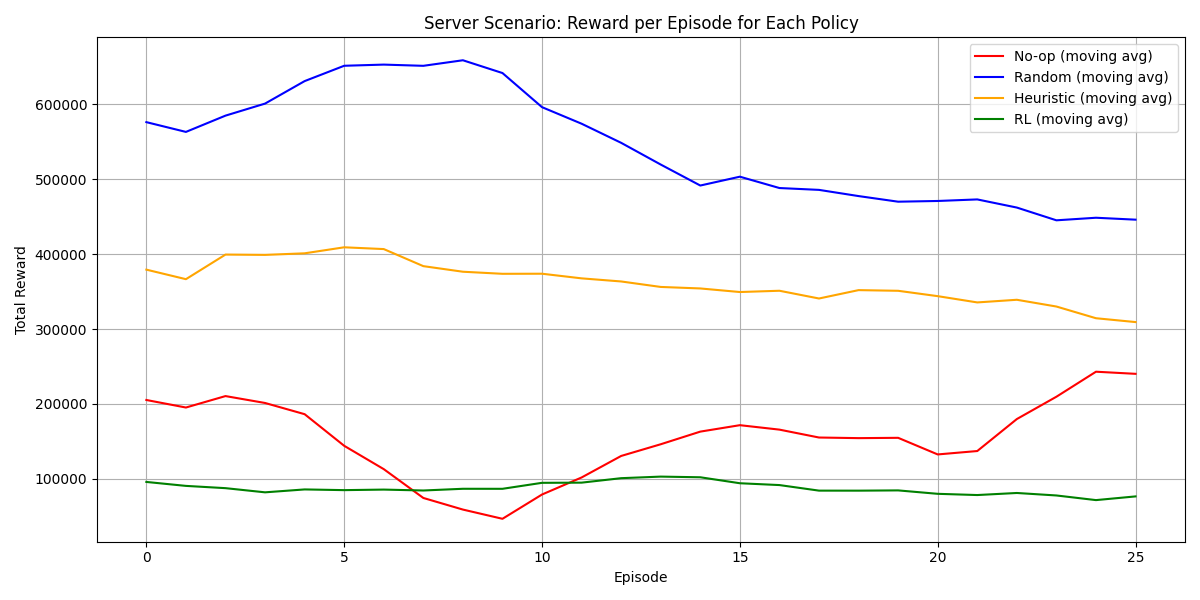
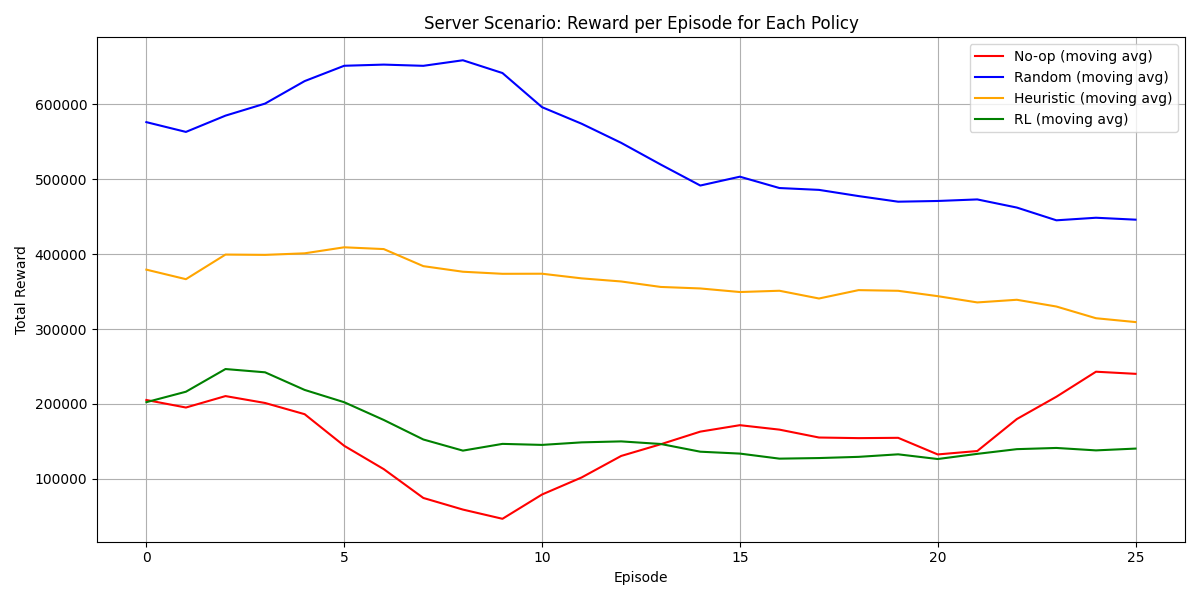
working on second scenario ..

diff --git a/Second Scenario - Server/train_server_agent.py b/Second Scenario - Server/train_server_agent.py
@@ -63,16 +63,20 @@ def reset_sys_params():
     time.sleep(2)  
 
 def get_current_params():
-    dirty_ratio = os.popen("sysctl vm.dirty_ratio").read().split("=")[1].strip()
-    rmem = os.popen("sysctl net.core.rmem_max").read().split("=")[1].strip()
-    wmem = os.popen("sysctl net.core.wmem_max").read().split("=")[1].strip()
-    zswap = os.popen("cat /sys/module/zswap/parameters/enabled").read().strip()
-    return {
-        "dirty_ratio": dirty_ratio,
-        "rmem_max": rmem,
-        "wmem_max": wmem,
-        "zswap": zswap
-    }
+    params = {}
+    # dirty_ratio
+    params["dirty_ratio"] = os.popen("sysctl vm.dirty_ratio").read().split("=")[1].strip()
+    # rmem_max
+    params["rmem_max"] = os.popen("sysctl net.core.rmem_max").read().split("=")[1].strip()
+    # wmem_max
+    params["wmem_max"] = os.popen("sysctl net.core.wmem_max").read().split("=")[1].strip()
+    # tcp_tw_reuse
+    params["tcp_tw_reuse"] = os.popen("sysctl net.ipv4.tcp_tw_reuse").read().split("=")[1].strip()
+    # tcp_fin_timeout
+    params["tcp_fin_timeout"] = os.popen("sysctl net.ipv4.tcp_fin_timeout").read().split("=")[1].strip()
+    # somaxconn
+    params["somaxconn"] = os.popen("sysctl net.core.somaxconn").read().split("=")[1].strip()
+    return params
 
 def validate_configuration(config_params, agent):
     for param, value in config_params.items():
@@ -82,8 +86,13 @@ def validate_configuration(config_params, agent):
             os.system(f"sudo sysctl -w net.core.rmem_max={value}")
         elif param == "wmem_max":
             os.system(f"sudo sysctl -w net.core.wmem_max={value}")
-        elif param == "zswap":
-            os.system(f"sudo sh -c 'echo {value} > /sys/module/zswap/parameters/enabled'")
+        elif param == "tcp_tw_reuse":
+            os.system(f"sudo sysctl -w net.ipv4.tcp_tw_reuse={value}")
+        elif param == "tcp_fin_timeout":
+            os.system(f"sudo sysctl -w net.ipv4.tcp_fin_timeout={value}")
+        elif param == "somaxconn":
+            os.system(f"sudo sysctl -w net.core.somaxconn={value}")
+
     rps, latency, p99, _ = run_wrk(duration=10)
     metrics = collect_metrics(rps)
     reward = agent.compute_reward(metrics, latency=latency, p99=p99)
@@ -111,21 +120,22 @@ def run_episode(agent, nb_steps_per_episode, sleep_interval, previous_actions):
         next_state = agent.get_state(collect_metrics(requests_per_sec))
         metrics = collect_metrics(requests_per_sec)
         reward = agent.compute_reward(metrics, latency=latency, p99=p99)
-        penalty_factor = agent.penalize_consecutive_actions(action_idx, previous_actions)
-        reward *= penalty_factor
+        if agent.actions[action_idx] != "no_op":
+            penalty_factor = agent.penalize_consecutive_actions(action_idx, previous_actions)
+            reward *= penalty_factor
         print("reward:", reward)
         previous_actions.append(action_idx)
         agent.learn(state, action_idx, reward, next_state)
         state = next_state
-        total_reward += reward  # <-- CUMUL ICI
+        total_reward += reward 
         time.sleep(sleep_interval)
 
-    # Final evaluation step (optionnel, ne pas l'ajouter au total_reward pour rester cohérent)
+    # Final evaluation step 
     requests_per_sec, latency, p99, _ = run_wrk(duration=5)
     metrics = collect_metrics(requests_per_sec)
     reward = agent.compute_reward(metrics, latency=latency, p99=p99)
     agent.learn(state, action_idx, reward, state)
-    return total_reward, requests_per_sec, latency  # <-- ON RETOURNE LE TOTAL
+    return total_reward, requests_per_sec, latency 
 
 def update_best_configs(best_configs, reward, requests_per_sec, latency):
     config = Configuration(
@@ -142,6 +152,7 @@ def update_best_configs(best_configs, reward, requests_per_sec, latency):
     return best_configs
 
 def plot_rewards(rewards, plots_dir):
+    """ Plot the rewards and save the plot to a file."""
     os.makedirs(plots_dir, exist_ok=True)
     existing = [int(f.split("_")[1].split(".")[0]) for f in os.listdir(plots_dir) if f.startswith("plot_") and f.endswith(".png")]
     next_num = max(existing) + 1 if existing else 1
@@ -161,7 +172,8 @@ def plot_rewards(rewards, plots_dir):
     plt.savefig(plot_path)
     print(f"Plot saved as {plot_path}")
 
-def train_agent(num_episodes=30, nb_steps_per_episode=10, sleep_interval=0.1, return_rewards=False, exploration_rate=1.0):
+def train_agent(num_episodes=100, nb_steps_per_episode=20, sleep_interval=0.1, return_rewards=False, exploration_rate=1.0):
+    """Train a reinforcement learning agent for the server scenario."""
     agent = ServerAgent(exploration_rate=exploration_rate)
     qtable_path = "Second Scenario - Server/q_table_server.npy"
     rewards_dir = "Second Scenario - Server/rewards"
@@ -179,7 +191,7 @@ def train_agent(num_episodes=30, nb_steps_per_episode=10, sleep_interval=0.1, re
             print(f"\n=== Episode {episode+1} / {num_episodes} ===")
             reward, requests_per_sec, latency = run_episode(agent, nb_steps_per_episode, sleep_interval, previous_actions)
             rewards.append(reward)
-            print(f"Reward of episode {episode+1} : {reward}")
+            print(f"Average reward of episode {episode+1} : {reward/nb_steps_per_episode}")
 
             if reward > best_reward:
                 best_reward = reward

diff --git a/Second Scenario - Server/agent_server.py b/Second Scenario - Server/agent_server.py
@@ -31,12 +31,8 @@ class ServerAgent:
             "set_somaxconn_128",
             "set_somaxconn_1024",
             "no_op", 
-            "reset_dirty_ratio",
             "reset_rmem_max",
             "reset_wmem_max",
-            "reset_tcp_tw_reuse",
-            "reset_tcp_fin_timeout",
-            "reset_somaxconn",
         ]
 
         self.bins = {
@@ -108,7 +104,6 @@ class ServerAgent:
     def apply_action(self, action_idx, metrics_before=None):
         """
         Apply the selected action to the system.
-        Log ctx_switches avant/après, rollback si aggravation, cooldown/pénalité pour actions toxiques.
         """
         action = self.actions[action_idx]
         current_time = time.time()
@@ -120,10 +115,6 @@ class ServerAgent:
 
         self.last_action_time[action] = current_time
 
-        # Log ctx_switches avant action
-        ctx_before = metrics_before.get("ctx_switches", 0) if metrics_before else None
-
-        # Appliquer l'action
         if action == "no_op":
             pass
         elif action == "set_dirty_ratio_10":
@@ -163,75 +154,10 @@ class ServerAgent:
         elif action == "reset_wmem_max":
             os.system("sudo sysctl -w net.core.wmem_max=212992")
 
-        # Attendre un peu pour que l'effet de l'action soit visible
-        time.sleep(0.2)
+        time.sleep(0.5)  # Wait for the system to apply the changes
 
-        # Log ctx_switches après action
-        ctx_after = None
-        if metrics_before is not None:
-            import psutil
-            ctx_after = psutil.cpu_stats().ctx_switches
-            print(f"[ACTION] {action} | ctx_switches avant: {ctx_before}, après: {ctx_after}")
 
-            # Rollback si aggravation > X% (ex: 20%)
-            if ctx_before and ctx_after and ctx_after > ctx_before * 1.2:
-                print(f"[ROLLBACK] ctx_switches aggravé de plus de 20% par {action}, rollback!")
-                self.rollback_action(action)
-                return False
-
-        # Pénalité exponentielle/cooldown pour actions toxiques
-        if action == "disable_zswap":
-            print("[PENALTY] Action toxique détectée: disable_zswap")
-            self.last_action_time[action] = current_time + 30  # cooldown de 30s
-
-        return True
-
-    def rollback_action(self, action):
-        """
-        Rollback d'une action si aggravation détectée.
-        """
-        if action.startswith("set_dirty_ratio"):
-            os.system("sudo sysctl -w vm.dirty_ratio=20")
-        elif action.startswith("set_rmem_max"):
-            os.system("sudo sysctl -w net.core.rmem_max=212992")
-        elif action.startswith("set_wmem_max"):
-            os.system("sudo sysctl -w net.core.wmem_max=212992")
-        elif action.startswith("set_tcp_tw_reuse"):
-            os.system("sudo sysctl -w net.ipv4.tcp_tw_reuse=0")
-        elif action.startswith("set_tcp_fin_timeout"):
-            os.system("sudo sysctl -w net.ipv4.tcp_fin_timeout=60")
-        elif action.startswith("set_somaxconn"):
-            os.system("sudo sysctl -w net.core.somaxconn=128")
-
-    def compute_reward(self, metrics, latency=None, p99=None, debug=False):
-        """
-        Compute the reward based on system metrics and latency.
-        Version simplifiée : reward = requests_per_sec uniquement,
-        ctx_penalty refactorisé.
-        """
-        rps = metrics.get("requests_per_sec", 0)
-        ctx_switches = metrics.get("ctx_switches", 0)
-        reward = rps
-
-        # Pénalité context switches (plus douce)
-        ctx_penalty = (ctx_switches / 20000) ** 1.1
-        reward -= ctx_penalty
-
-        # Pénalité latence (si mesurée)
-        if latency is not None:
-            reward -= (latency / 10)  # 10ms de latence = -1
-
-        # Pénalité p99 (si mesurée)
-        if p99 is not None:
-            reward -= (p99 / 10)
-
-        # Clamp pour éviter des rewards trop extrêmes
-        reward = max(reward, -100000)
-
-        if debug:
-            print(f"Reward: {reward:.2f} | RPS: {rps:.2f} | ctx_penalty: {ctx_penalty:.2f} | latency: {latency} | p99: {p99}")
-
-        return reward
+#reward fct 
 
     def penalize_consecutive_actions(self, current_action, previous_actions, window=3):
         """

diff --git a/Second Scenario - Server/heuristic_agent_server.py b/Second Scenario - Server/heuristic_agent_server.py
@@ -7,19 +7,19 @@ from train_server_agent import collect_metrics, reset_sys_params
 
 def heuristic_policy(metrics, agent):
     """Apply a heuristic policy based on system metrics to select an action."""
-    # Si iowait > 1, baisse dirty_ratio pour accélérer le flush
-    if metrics["iowait"] > 1:
+    if metrics["iowait"] > 1: 
+        # If I/O wait is high, increase dirty ratio
         return agent.actions.index("set_dirty_ratio_10")
-    # Si la latence est élevée (> 1 ms) et le RPS est faible, augmente wmem_max
     if metrics.get("latency", 0) > 1 and metrics["requests_per_sec"] < 100000:
+        # If latency is high and requests per second is low, increase memory limits
         return agent.actions.index("set_wmem_max_16M")
-    # Si cpu_usage > 30%, augmente rmem_max pour améliorer le débit réseau
     if metrics["cpu_usage"] > 30:
+        # If CPU usage is high, reduce dirty ratio
         return agent.actions.index("set_rmem_max_16M")
-    # Si ctx_switches > 20000, augmente somaxconn pour éviter la saturation
     if metrics.get("ctx_switches", 0) > 20000:
+        # If context switches are high, increase TCP reuse
         return agent.actions.index("set_somaxconn_1024")
-    # Sinon, no_op
+    # If none of the conditions are met, do nothing
     return agent.actions.index("no_op")
 
 def main(num_episodes=30, nb_steps_per_episode=10, sleep_interval=1, return_rewards=False):
@@ -43,15 +43,16 @@ def main(num_episodes=30, nb_steps_per_episode=10, sleep_interval=1, return_rewa
             next_state = agent.get_state(collect_metrics(requests_per_sec))
             metrics = collect_metrics(requests_per_sec)
             reward = agent.compute_reward(metrics, latency=latency, p99=p99)
-            penalty_factor = agent.penalize_consecutive_actions(action_idx, previous_actions)
-            reward *= penalty_factor
+            if agent.actions[action_idx] != "no_op":
+                penalty_factor = agent.penalize_consecutive_actions(action_idx, previous_actions)
+                reward *= penalty_factor
             print("reward:", reward)
             previous_actions.append(action_idx)
             total_reward += reward
             state = next_state
             time.sleep(sleep_interval)
         rewards.append(total_reward)
-        print(f"Episode {episode+1}: total reward = {total_reward:.2f}")
+        print(f"Average reward for episode {episode+1}: {total_reward/nb_steps_per_episode}")
     os.makedirs("Second Scenario - Server/rewards", exist_ok=True)
     np.save("Second Scenario - Server/rewards/rewards_heuristic_server.npy", np.array(rewards))
     if return_rewards:

diff --git a/Second Scenario - Server/random_agent_server.py b/Second Scenario - Server/random_agent_server.py
@@ -23,15 +23,16 @@ def main(num_episodes=30, nb_steps_per_episode=10, sleep_interval=1, return_rewa
             next_state = agent.get_state(collect_metrics(requests_per_sec))
             metrics = collect_metrics(requests_per_sec)
             reward = agent.compute_reward(metrics, latency=latency, p99=p99)
-            penalty_factor = agent.penalize_consecutive_actions(action_idx, previous_actions)
-            reward *= penalty_factor
+            if agent.actions[action_idx] != "no_op":
+                penalty_factor = agent.penalize_consecutive_actions(action_idx, previous_actions)
+                reward *= penalty_factor
             print("reward:", reward)
             previous_actions.append(action_idx)
             total_reward += reward
             state = next_state
             time.sleep(sleep_interval)
         rewards.append(total_reward)
-        print(f"Episode {episode+1}: total reward = {total_reward:.2f}")
+        print(f"Average reward for episode {episode+1}: {total_reward/nb_steps_per_episode}")
     os.makedirs("Second Scenario - Server/rewards", exist_ok=True)
     np.save("Second Scenario - Server/rewards/rewards_random_server.npy", np.array(rewards))
     if return_rewards:

diff --git a/Second Scenario - Server/no_op_policy_server.py b/Second Scenario - Server/no_op_policy_server.py
@@ -24,15 +24,16 @@ def main(num_episodes=30, nb_steps_per_episode=10, sleep_interval=1, return_rewa
             next_state = agent.get_state(collect_metrics(requests_per_sec))
             metrics = collect_metrics(requests_per_sec)
             reward = agent.compute_reward(metrics, latency=latency, p99=p99)
-            penalty_factor = agent.penalize_consecutive_actions(action_idx, previous_actions)
-            reward *= penalty_factor
+            if agent.actions[action_idx] != "no_op":
+                penalty_factor = agent.penalize_consecutive_actions(action_idx, previous_actions)
+                reward *= penalty_factor
             print("reward:", reward)
             previous_actions.append(action_idx)
             total_reward += reward
             state = next_state
             time.sleep(sleep_interval)
         rewards.append(total_reward)
-        print(f"Episode {episode+1}: total reward = {total_reward:.2f}")
+        print(f"Average reward for episode {episode+1}: {total_reward/nb_steps_per_episode}")
     os.makedirs("Second Scenario - Server/rewards", exist_ok=True)
     np.save("Second Scenario - Server/rewards/rewards_noop_server.npy", np.array(rewards))
     if return_rewards:

diff --git a/Second Scenario - Server/compare_strategies_server.py b/Second Scenario - Server/compare_strategies_server.py
@@ -5,6 +5,7 @@ import os
 REWARDS_DIR = "Second Scenario - Server/rewards"
 
 def load_rewards(filename):
+    """"Load rewards data from a .npy file."""
     path = os.path.join(REWARDS_DIR, filename)
     if not os.path.exists(path):
         print(f"File not found: {path}")
@@ -12,9 +13,11 @@ def load_rewards(filename):
     return np.load(path)
 
 def moving_average(data, window=5):
+    """Compute the moving average of the data with a specified window size."""
     return np.convolve(data, np.ones(window)/window, mode='valid')
 
 def main():
+    """Main function to compare strategies in the server scenario."""
     rewards_files = {
         "No-op": "rewards_noop_server.npy",
         "Random": "rewards_random_server.npy",
